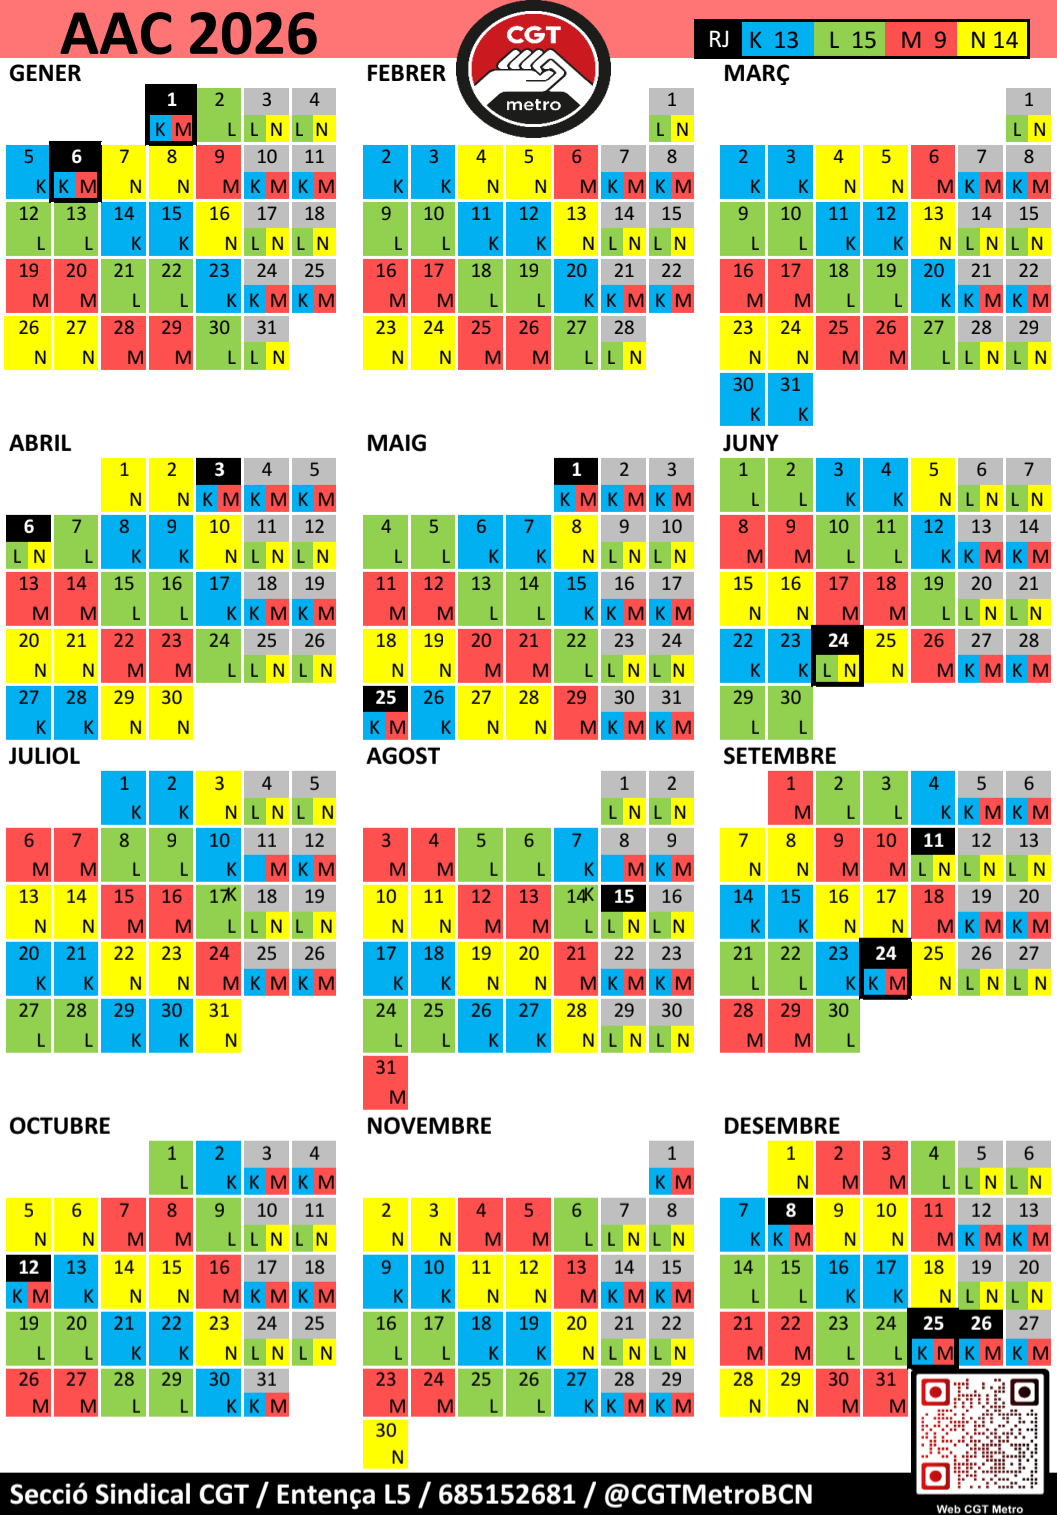
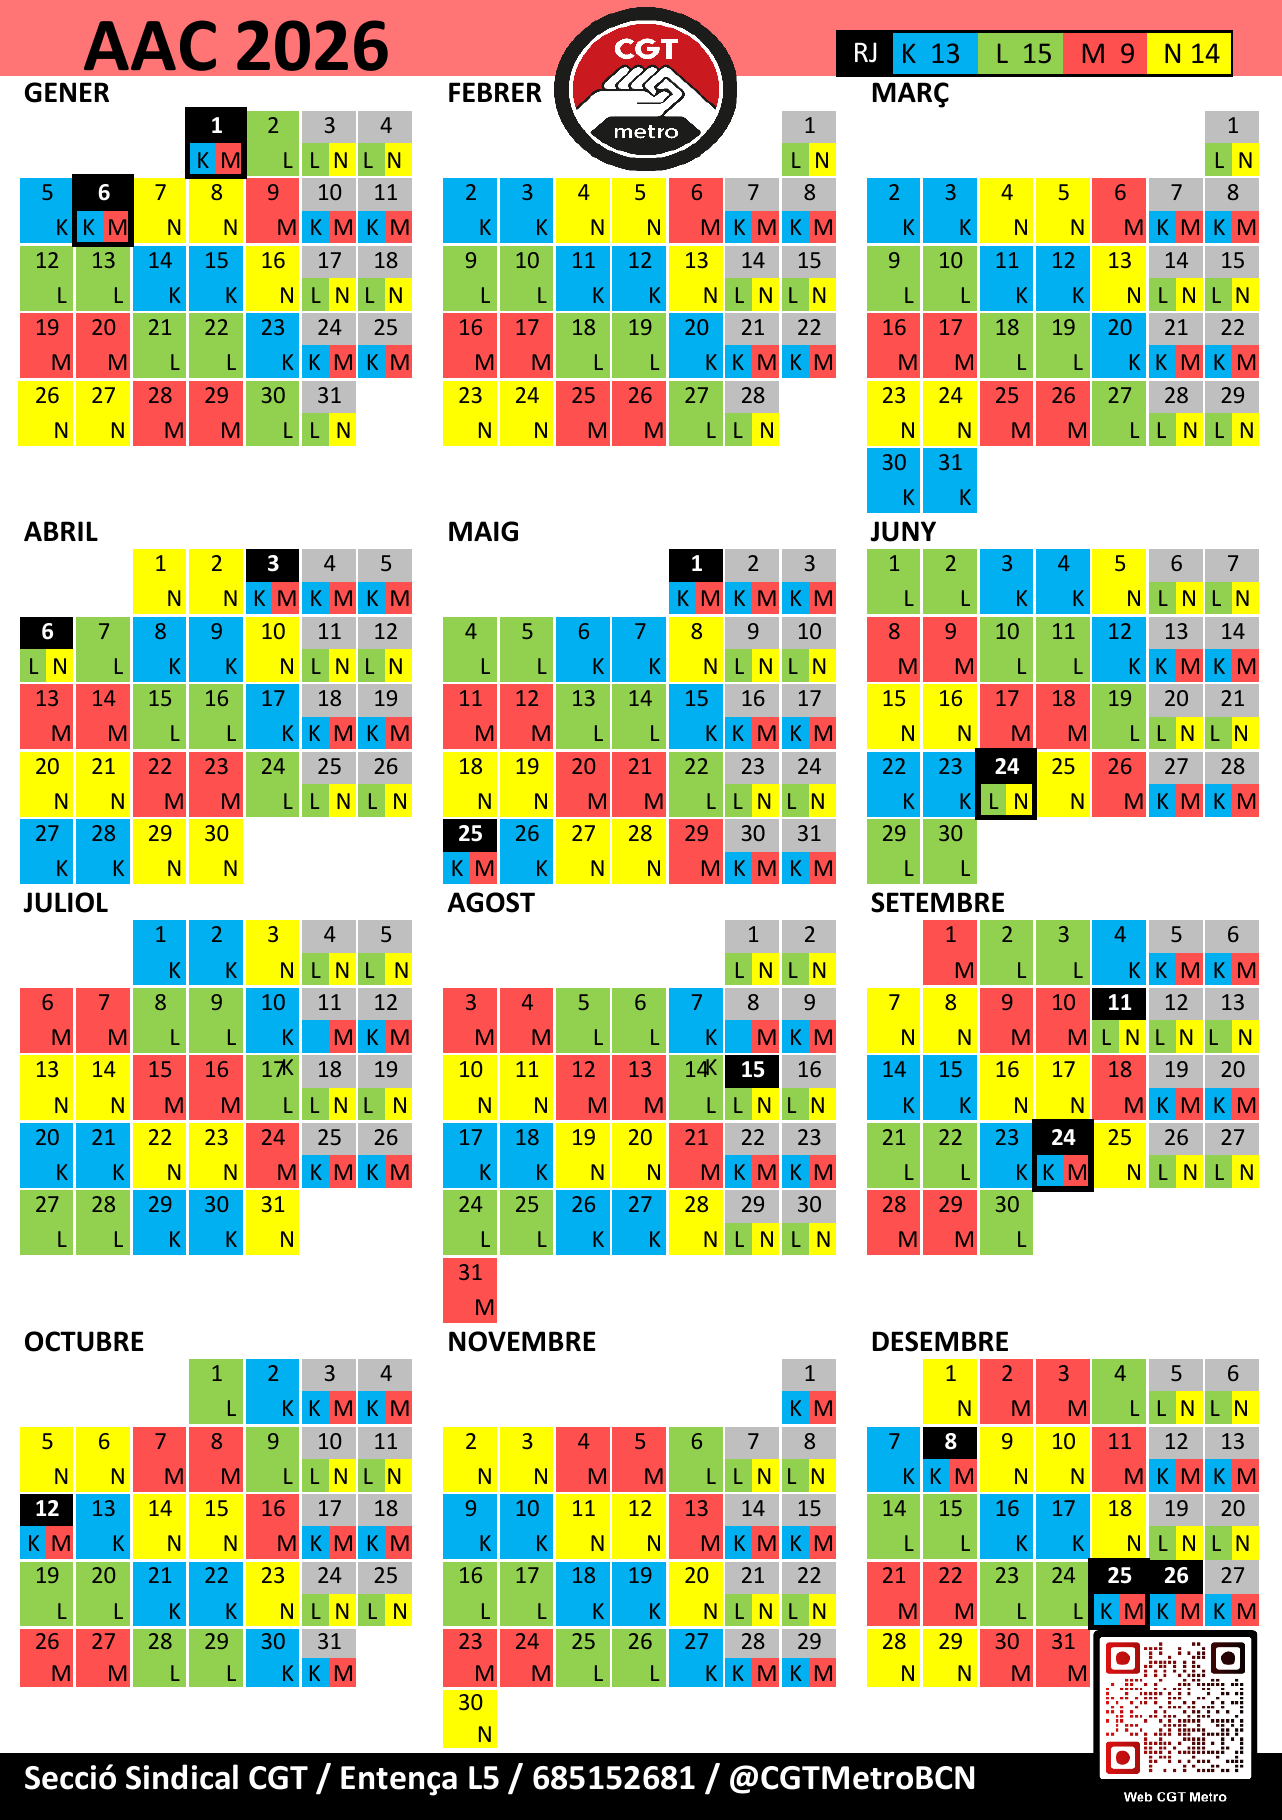
Update 2026 and 2027 Calendaris

diff --git a/public/sw.js b/public/sw.js
@@ -1,5 +1,5 @@
 const CACHE = 'tmb-agent-__VERSION__';
-const FILES = ["src/main.js?v=miniapps-v1","src/modules.js?v=miniapps-v1","src/miniapps.js?v=miniapps-v1","src/miniapps.css?v=miniapps-v1","assets/calendaris/2027-general.jpg","assets/calendaris/2027-n.jpg","assets/calendaris/2027-m.jpg","assets/calendaris/2027-k.jpg","assets/calendaris/2027-l.jpg","assets/calendaris/2026-general.png","assets/tramits/extraradi.pdf","assets/tramits/prestec-habitatge.pdf","assets/tramits/peticio-fas.pdf","assets/tramits/prestec-obres.pdf","assets/tramits/normativa-fas.pdf","assets/tramits/permis-oncologic.pdf","assets/tramits/receptes.pdf","assets/rc/articles.json","assets/rc/reglament.pdf","assets/icons/calendaris-400.webp","assets/icons/tramits-400.webp","assets/icons/cobraments-400.webp","assets/icons/rc-400.webp",'src/register-sw.js','assets/icons/jubilacio-400.webp','src/convenis-reader.js?v=readable-v2','src/convenis-format.js','src/image-gestures.js','assets/tmobilitat/pages/page-1.webp','assets/tmobilitat/pages/page-2.webp','assets/tmobilitat/pages/page-3.webp','assets/tmobilitat/pages/page-4.webp','assets/tmobilitat/pages/page-5.webp','assets/tmobilitat/pages/page-6.webp','assets/tmobilitat/pages/page-7.webp','assets/tmobilitat/pages/page-8.webp','assets/tmobilitat/pages/page-9.webp','assets/tmobilitat/pages/page-10.webp','assets/tmobilitat/pages/page-11.webp','assets/tmobilitat/pages/page-12.webp','assets/tmobilitat/pages/page-13.webp','assets/tmobilitat/pages/page-14.webp','assets/tmobilitat/pages/page-15.webp','assets/tmobilitat/pages/page-16.webp','assets/tmobilitat/pages/page-17.webp','assets/tmobilitat/pages/page-18.webp','assets/tmobilitat/pages/page-19.webp','assets/tmobilitat/pages/page-20.webp','assets/tmobilitat/pages/page-21.webp','assets/tmobilitat/pages/page-22.webp','src/miralin.js?v=corners-v1','assets/tmobilitat/Procediments-T-Mobilitat_3.0.pdf','src/text-search.js','assets/convenis/conveni-xxi-1997-1998.pdf','assets/convenis/conveni-xx-1993-1995.pdf','assets/convenis/conveni-xvi-1985-1986.pdf','src/convenis.js?v=readable-v2','src/convenis-search.js?v=highlight-v1','src/convenis.css?v=readable-v2','assets/icons/convenis-256.webp','assets/convenis/index.json','assets/icons/administracio-eye-256.webp','assets/icons/cercapersones-256.webp','src/venda-diners.js?v=venda-v1','src/venda-diners.css?v=venda-v1','assets/icons/venda-diners-256.webp','assets/icons/venda-diners-400.webp','src/objectes.js?v=objectes-v1','src/objectes.css?v=objectes-v1','assets/objectes/objectes-256.webp','assets/objectes/objectes-400.webp','assets/objectes/tramit-qr.png','src/farmacioles.js?v=farmacioles-v1','src/farmacioles.css?v=farmacioles-v1','assets/icons/farmacioles-256.webp','assets/icons/farmacioles-400.webp','src/atencio.js?v=atencio-v2','src/atencio-data.js?v=search-v2','src/atencio.css?v=atencio-v2','assets/icons/atencio-256.webp','assets/atencio/allegacions-qr.png','assets/atencio/allegacions.webp','assets/atencio/queixes-qr.png','assets/atencio/queixes.webp','assets/atencio/reglament-qr.png','assets/atencio/reglament.webp','src/dossiers.js?v=dossiers-v1','src/dossiers-data.js','src/dossiers-template.js','src/dossiers.css?v=dossiers-v1','assets/icons/dossiers-256.webp','src/pae.js?v=pae-v3','src/pae-data.js','src/pae-template.js','src/pae.css?v=pae-v3','assets/icons/pae-256.webp','src/ascensors.js?v=ascensors-v1', 'src/ascensors-data.js', 'src/ascensors-template.js', 'src/ascensors.css?v=source-link-v2', 'assets/icons/ascensors-256.webp', 'assets/icons/tmobilitat-256.webp', 'assets/tmobilitat/plastic-verd.webp', 'src/tmobilitat-expiry.js?v=plastic-v1', 'assets/tmobilitat/acompanyant.webp', 'assets/tmobilitat/consultes.webp', 'assets/tmobilitat/rosa.webp', 'assets/tmobilitat/t-16.webp', 'src/tmobilitat.js?v=image-gestures-v1', 'src/tmobilitat-data.js', 'src/tmobilitat-cases.js', 'src/tmobilitat.css?v=image-gestures-v1', 'assets/icons/permisos-192.webp', 'src/permisos.js?v=permisos-v4', 'src/permisos-data.js', 'src/permisos.css?v=permisos-v4', 'assets/icons/nomina-192.png', '.', 'index.html', 'src/main.js?v=jubilacio-v1', 'src/modules.js?v=jubilacio-v1', 'src/bustia.js?v=administracio-v1', 'src/map.js?v=image-gestures-v1', 'assets/mapa-icono.png', 'assets/consultes.png', 'assets/mapa-metro-barcelona-2026.png', 'src/administration.js?v=activity-v2', 'src/session.js', 'src/cquadre.js?v=cquadre-manual-v1', 'src/cquadre-view.js?v=cquadre-open-read-v4', 'src/cquadre-view.css?v=cquadre-simple-v3', 'src/styles.css?v=miralin-corners-v2', 'assets/metro-9000.jpg', 'assets/metro-lines.svg', 'manifest.webmanifest', 'assets/icons/tmb-agent-192.png', 'assets/icons/tmb-agent-512.png', 'assets/icons/incidencias-192.png', 'assets/icons/dea-192.png', 'assets/icons/bobines-192.png', 'assets/icons/computo-192.png', 'assets/icons/miralin-192.png', 'assets/icons/complements-quadre-192.png', 'assets/icons/bustia-192.png','assets/icons/risc-percebut-400.svg'];
+const FILES = ["src/main.js?v=calendaris-v2","src/modules.js?v=miniapps-v1","src/miniapps.js?v=calendaris-v2","src/miniapps.css?v=miniapps-v1","assets/calendaris/2027-general.jpg","assets/calendaris/2027-n.jpg","assets/calendaris/2027-m.jpg","assets/calendaris/2027-k.jpg","assets/calendaris/2027-l.jpg","assets/calendaris/2026-general.png","assets/calendaris/2026-k.png","assets/calendaris/2026-l.png","assets/calendaris/2026-m.png","assets/calendaris/2026-n.png","assets/tramits/extraradi.pdf","assets/tramits/prestec-habitatge.pdf","assets/tramits/peticio-fas.pdf","assets/tramits/prestec-obres.pdf","assets/tramits/normativa-fas.pdf","assets/tramits/permis-oncologic.pdf","assets/tramits/receptes.pdf","assets/rc/articles.json","assets/rc/reglament.pdf","assets/icons/calendaris-400.webp","assets/icons/tramits-400.webp","assets/icons/cobraments-400.webp","assets/icons/rc-400.webp",'src/register-sw.js','assets/icons/jubilacio-400.webp','src/convenis-reader.js?v=readable-v2','src/convenis-format.js','src/image-gestures.js','assets/tmobilitat/pages/page-1.webp','assets/tmobilitat/pages/page-2.webp','assets/tmobilitat/pages/page-3.webp','assets/tmobilitat/pages/page-4.webp','assets/tmobilitat/pages/page-5.webp','assets/tmobilitat/pages/page-6.webp','assets/tmobilitat/pages/page-7.webp','assets/tmobilitat/pages/page-8.webp','assets/tmobilitat/pages/page-9.webp','assets/tmobilitat/pages/page-10.webp','assets/tmobilitat/pages/page-11.webp','assets/tmobilitat/pages/page-12.webp','assets/tmobilitat/pages/page-13.webp','assets/tmobilitat/pages/page-14.webp','assets/tmobilitat/pages/page-15.webp','assets/tmobilitat/pages/page-16.webp','assets/tmobilitat/pages/page-17.webp','assets/tmobilitat/pages/page-18.webp','assets/tmobilitat/pages/page-19.webp','assets/tmobilitat/pages/page-20.webp','assets/tmobilitat/pages/page-21.webp','assets/tmobilitat/pages/page-22.webp','src/miralin.js?v=corners-v1','assets/tmobilitat/Procediments-T-Mobilitat_3.0.pdf','src/text-search.js','assets/convenis/conveni-xxi-1997-1998.pdf','assets/convenis/conveni-xx-1993-1995.pdf','assets/convenis/conveni-xvi-1985-1986.pdf','src/convenis.js?v=readable-v2','src/convenis-search.js?v=highlight-v1','src/convenis.css?v=readable-v2','assets/icons/convenis-256.webp','assets/convenis/index.json','assets/icons/administracio-eye-256.webp','assets/icons/cercapersones-256.webp','src/venda-diners.js?v=venda-v1','src/venda-diners.css?v=venda-v1','assets/icons/venda-diners-256.webp','assets/icons/venda-diners-400.webp','src/objectes.js?v=objectes-v1','src/objectes.css?v=objectes-v1','assets/objectes/objectes-256.webp','assets/objectes/objectes-400.webp','assets/objectes/tramit-qr.png','src/farmacioles.js?v=farmacioles-v1','src/farmacioles.css?v=farmacioles-v1','assets/icons/farmacioles-256.webp','assets/icons/farmacioles-400.webp','src/atencio.js?v=atencio-v2','src/atencio-data.js?v=search-v2','src/atencio.css?v=atencio-v2','assets/icons/atencio-256.webp','assets/atencio/allegacions-qr.png','assets/atencio/allegacions.webp','assets/atencio/queixes-qr.png','assets/atencio/queixes.webp','assets/atencio/reglament-qr.png','assets/atencio/reglament.webp','src/dossiers.js?v=dossiers-v1','src/dossiers-data.js','src/dossiers-template.js','src/dossiers.css?v=dossiers-v1','assets/icons/dossiers-256.webp','src/pae.js?v=pae-v3','src/pae-data.js','src/pae-template.js','src/pae.css?v=pae-v3','assets/icons/pae-256.webp','src/ascensors.js?v=ascensors-v1', 'src/ascensors-data.js', 'src/ascensors-template.js', 'src/ascensors.css?v=source-link-v2', 'assets/icons/ascensors-256.webp', 'assets/icons/tmobilitat-256.webp', 'assets/tmobilitat/plastic-verd.webp', 'src/tmobilitat-expiry.js?v=plastic-v1', 'assets/tmobilitat/acompanyant.webp', 'assets/tmobilitat/consultes.webp', 'assets/tmobilitat/rosa.webp', 'assets/tmobilitat/t-16.webp', 'src/tmobilitat.js?v=image-gestures-v1', 'src/tmobilitat-data.js', 'src/tmobilitat-cases.js', 'src/tmobilitat.css?v=image-gestures-v1', 'assets/icons/permisos-192.webp', 'src/permisos.js?v=permisos-v4', 'src/permisos-data.js', 'src/permisos.css?v=permisos-v4', 'assets/icons/nomina-192.png', '.', 'index.html', 'src/main.js?v=jubilacio-v1', 'src/modules.js?v=jubilacio-v1', 'src/bustia.js?v=administracio-v1', 'src/map.js?v=image-gestures-v1', 'assets/mapa-icono.png', 'assets/consultes.png', 'assets/mapa-metro-barcelona-2026.png', 'src/administration.js?v=activity-v2', 'src/session.js', 'src/cquadre.js?v=cquadre-manual-v1', 'src/cquadre-view.js?v=cquadre-open-read-v4', 'src/cquadre-view.css?v=cquadre-simple-v3', 'src/styles.css?v=miralin-corners-v2', 'assets/metro-9000.jpg', 'assets/metro-lines.svg', 'manifest.webmanifest', 'assets/icons/tmb-agent-192.png', 'assets/icons/tmb-agent-512.png', 'assets/icons/incidencias-192.png', 'assets/icons/dea-192.png', 'assets/icons/bobines-192.png', 'assets/icons/computo-192.png', 'assets/icons/miralin-192.png', 'assets/icons/complements-quadre-192.png', 'assets/icons/bustia-192.png','assets/icons/risc-percebut-400.svg'];
 self.addEventListener('install', event => {
   event.waitUntil(caches.open(CACHE).then(cache => cache.addAll([...new Set(FILES.map(file => new URL(file, self.registration.scope).href))])));
 });

diff --git a/src/miniapps.js b/src/miniapps.js
@@ -52,13 +52,19 @@ export function renderCobraments(){
 
 // Exact source-pixel regions: exclude proposal headers and handwriting.
 const calendars={
- '2026':[{id:'general',name:'General · CGT',file:'2026-general.png',width:1057,height:1518}],
+ '2026':[
+  {id:'general',name:'General · CGT',file:'2026-general.png',width:1282,height:1820},
+  {id:'k',name:'Lletra K',file:'2026-k.png',width:1282,height:1819},
+  {id:'l',name:'Lletra L',file:'2026-l.png',width:1282,height:1819},
+  {id:'m',name:'Lletra M',file:'2026-m.png',width:1282,height:1819},
+  {id:'n',name:'Lletra N',file:'2026-n.png',width:1282,height:1819},
+ ],
  '2027':[
   {id:'general',name:'General',file:'2027-general.jpg',width:905,height:1280,box:[88,176,730,1025]},
-  {id:'k',name:'Lletra K',file:'2027-k.jpg',width:1280,height:905,box:[180,175,920,585]},
-  {id:'l',name:'Lletra L',file:'2027-l.jpg',width:1280,height:905,box:[130,105,1035,590]},
-  {id:'m',name:'Lletra M',file:'2027-m.jpg',width:1280,height:905,box:[170,180,935,590]},
-  {id:'n',name:'Lletra N',file:'2027-n.jpg',width:1280,height:905,box:[170,180,930,590]},
+  {id:'k',name:'Lletra K',file:'2027-k.jpg',width:2105,height:1489,box:[170,240,1824,1030]},
+  {id:'l',name:'Lletra L',file:'2027-l.jpg',width:2977,height:2105,box:[302,244,2407,1372]},
+  {id:'m',name:'Lletra M',file:'2027-m.jpg',width:2105,height:1489,box:[170,240,1824,1030]},
+  {id:'n',name:'Lletra N',file:'2027-n.jpg',width:2105,height:1489,box:[170,240,1824,1030]},
  ]};
 export function renderCalendaris(){
  const root=shell('Calendaris','Festes AAC, lletres i miniperíodes.');

diff --git a/src/main.js b/src/main.js
@@ -8,7 +8,7 @@ import { callAdmin, launcherHeartbeat, recordOpen, renderAdministration } from '
 let canAdmin = false;
 import { renderMap } from './map.js?v=image-gestures-v1';
 import { modules } from './modules.js?v=miniapps-v1';
-import { renderCalendaris, renderTramits, renderCobraments, renderRC } from './miniapps.js?v=miniapps-v1';
+import { renderCalendaris, renderTramits, renderCobraments, renderRC } from './miniapps.js?v=calendaris-v2';
 import { renderTMobilitat } from './tmobilitat.js?v=image-gestures-v1';
 import { renderAscensors } from './ascensors.js?v=ascensors-v1';
 import { renderPAE } from './pae.js?v=pae-v3';

diff --git a/index.html b/index.html
@@ -30,6 +30,6 @@
   <footer><div class="app-build"><span data-build-version>Versió de desenvolupament</span><small>by Roberspierre</small></div></footer>
   <noscript>Activa JavaScript per obrir els mòduls de TMB Agent.</noscript>
   <script src="./src/register-sw.js"></script>
-  <script type="module" src="./src/main.js?v=miniapps-v1"></script>
+  <script type="module" src="./src/main.js?v=calendaris-v2"></script>
 </body>
 </html>
